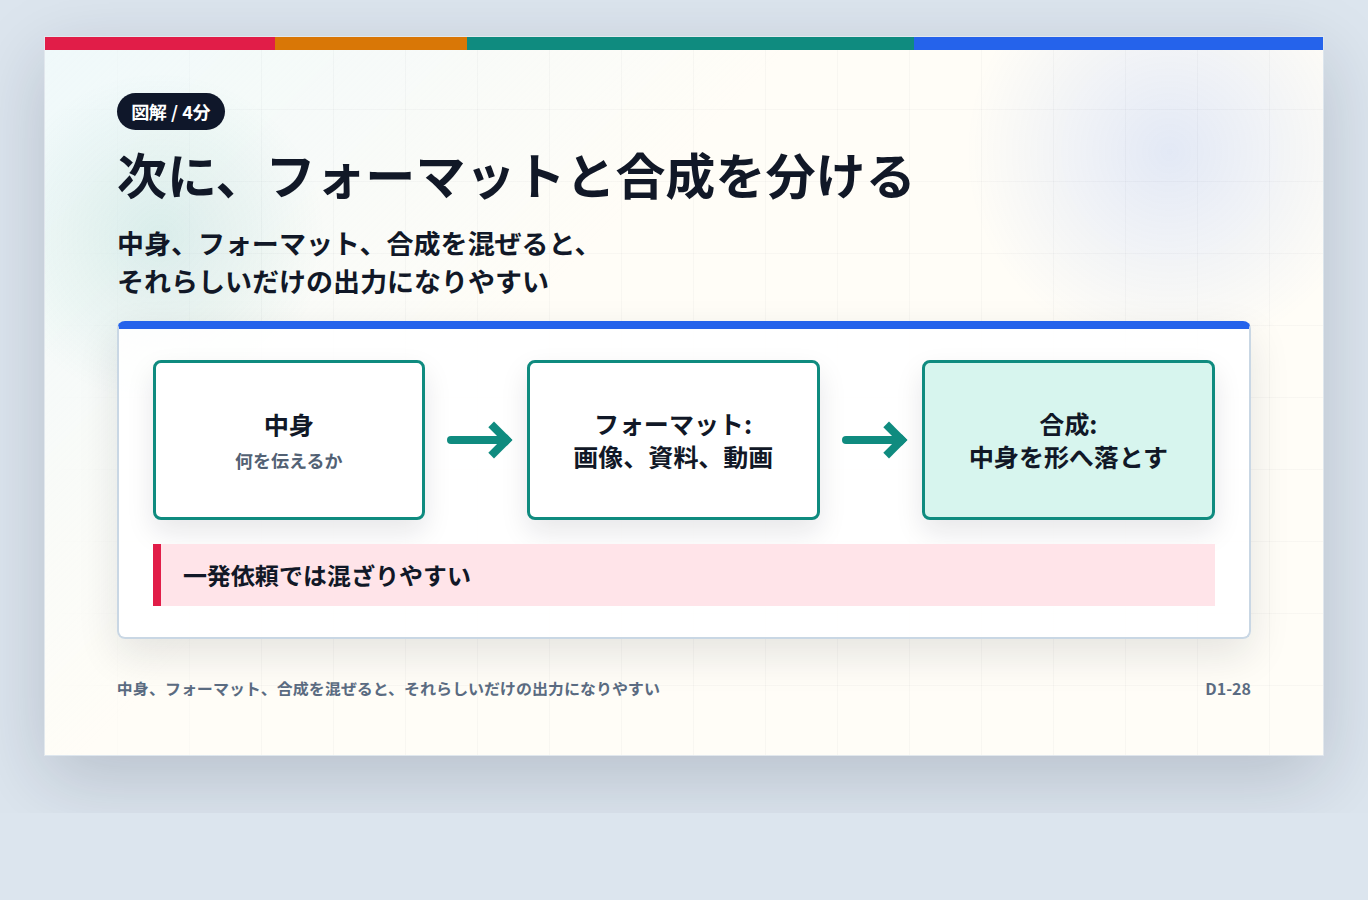
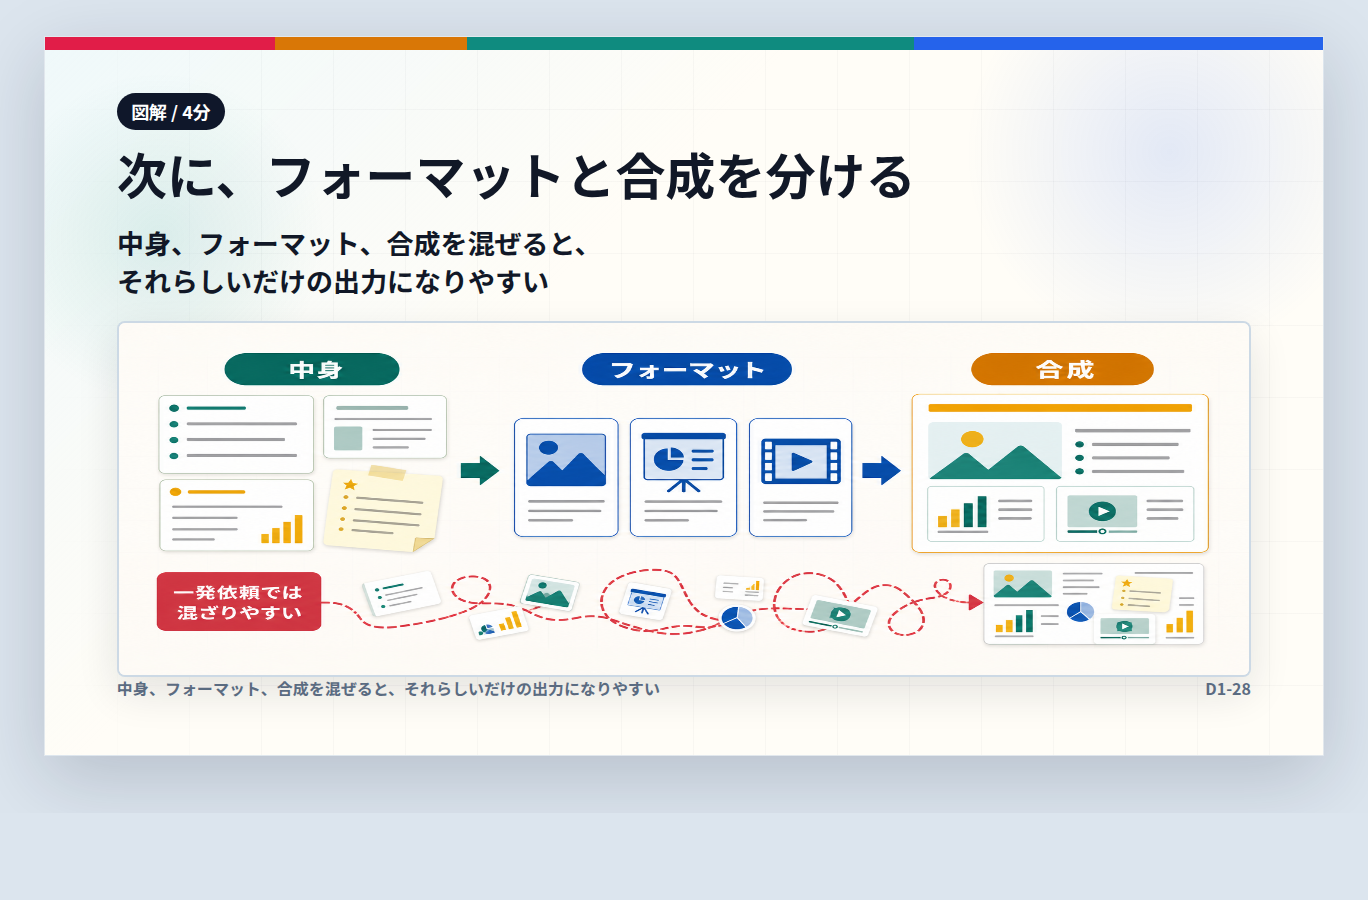
Update Day 1 generated diagram preview

Changed region(s): [[0.0921, 0.3422, 0.9211, 0.7156]]

diff --git a/slide-previews/honshitsu-ai-course/slide-format/slides.css b/slide-previews/honshitsu-ai-course/slide-format/slides.css
@@ -2222,6 +2222,22 @@
   padding: 26px 34px;
 }
 
+#D1-28 .generated-body-image-canvas {
+  overflow: hidden;
+  min-height: 350px;
+  padding: 0;
+  border: 2px solid rgba(201, 215, 228, 0.95);
+  background: #fffdf7;
+}
+
+#D1-28 .generated-body-image-canvas img {
+  display: block;
+  width: 100%;
+  height: 100%;
+  min-height: 350px;
+  object-fit: fill;
+}
+
 #D1-21 .diagram-moving .moving {
   min-height: 210px;
 }
